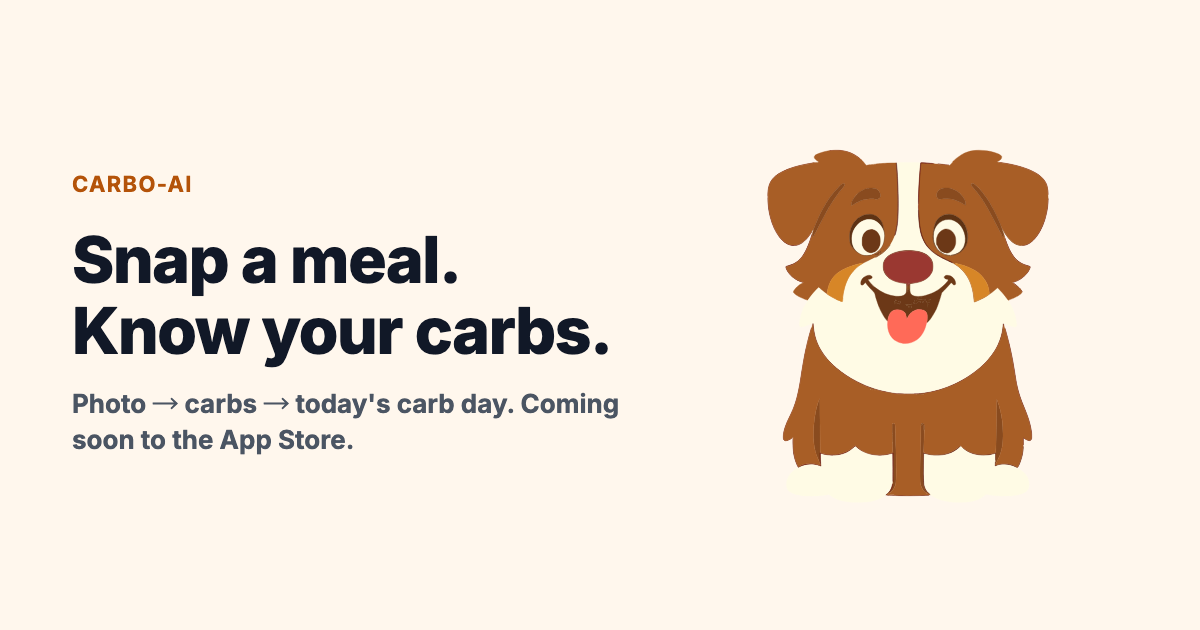
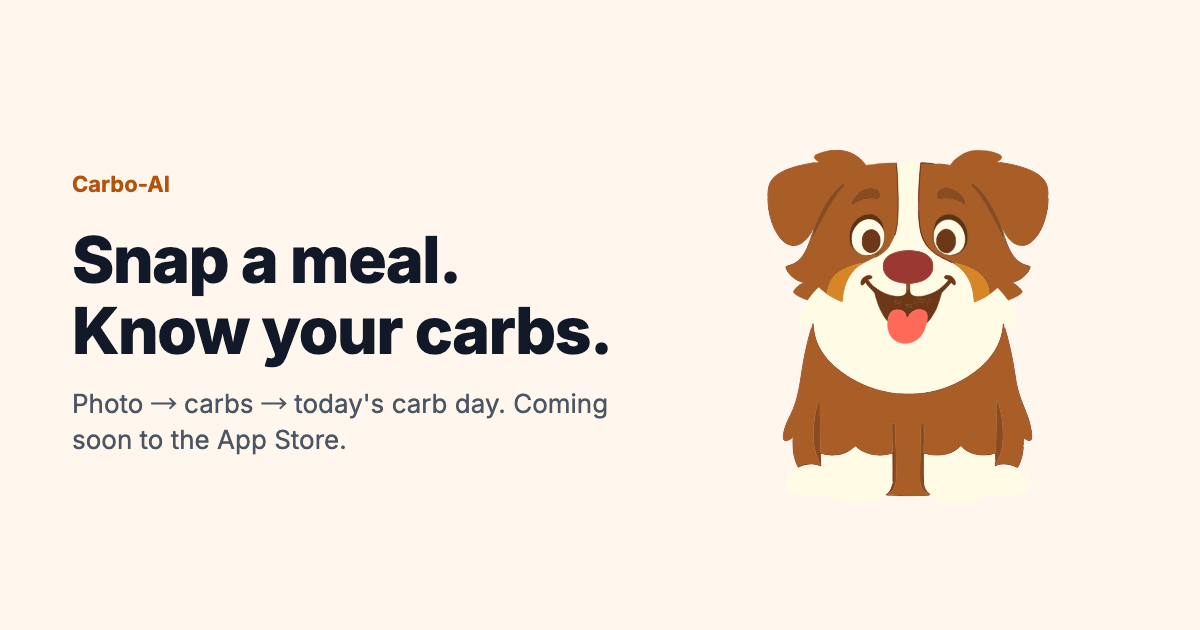
site: sitemap for all marketing pages; minimal how-it-works/zh pages ahead of phase 3

Changed region(s): [[0.0617, 0.6032, 0.5242, 0.7238], [0.0617, 0.2714, 0.185, 0.3016], [0.0617, 0.6333, 0.1233, 0.6635]]

diff --git a/tools/og-zh.html b/tools/og-zh.html
@@ -1,14 +1,14 @@
 <!doctype html><meta charset="utf-8">
-<link rel="stylesheet" href="https://fonts.googleapis.com/css2?family=Inter:wght@700;800&display=swap">
+<link rel="stylesheet" href="https://fonts.googleapis.com/css2?family=Inter:wght@400;700;800&display=swap">
 <style>
   html,body{margin:0;width:1200px;height:630px;background:#FFF7ED;font-family:Inter,-apple-system,"PingFang SC","Hiragino Sans GB",sans-serif;overflow:hidden}
   .wrap{display:grid;grid-template-columns:1fr 440px;height:630px;align-items:center;padding:0 72px;gap:32px}
   h1{font-size:68px;line-height:1.15;color:#111827;margin:0 0 20px;font-weight:800}
   p{font-size:26px;color:#4B5563;margin:0;line-height:1.5}
-  .brand{font-size:22px;font-weight:700;color:#B45309;letter-spacing:.06em;margin-bottom:28px}
+  .brand{font-size:22px;font-weight:700;color:#B45309;margin-bottom:28px}
   img{width:440px;height:560px;object-fit:contain}
 </style>
 <div class="wrap">
-  <div><div class="brand">Carbo-AI</div><h1>拍一张，<br>碳水算清。</h1><p>照片 → 碳水 → 今天的碳水日。即将登陆 App Store。</p></div>
+  <div><div class="brand">Carbo-AI</div><h1>拍一张，<br>碳水算清。</h1><p>照片 → 碳水 → 今天的碳水日。即将登陆 App&nbsp;Store。</p></div>
   <img src="../assets/img/carbo.svg" alt="">
 </div>

diff --git a/zh/how-it-works.html b/zh/how-it-works.html
@@ -1,0 +1,5 @@
+<!DOCTYPE html><html lang="zh-Hans"><head><meta charset="utf-8"><meta name="viewport" content="width=device-width, initial-scale=1">
+<title>估算是怎么来的 — Carbo-AI</title><meta name="description" content="Carbo-AI 如何把一张餐食照片变成碳水估算，以及为什么碳循环能容忍估算。">
+<link rel="canonical" href="https://carboai.app/zh/how-it-works.html"><link rel="alternate" hreflang="zh-Hans" href="https://carboai.app/zh/how-it-works.html"><link rel="alternate" hreflang="en" href="https://carboai.app/how-it-works.html"><link rel="alternate" hreflang="x-default" href="https://carboai.app/how-it-works.html">
+<link rel="icon" href="../favicon.svg" type="image/svg+xml"><meta property="og:image" content="https://carboai.app/og-zh.png"><link rel="stylesheet" href="https://fonts.googleapis.com/css2?family=Inter:wght@400;500;600;700;800&display=swap"><link rel="stylesheet" href="../assets/tokens.css"><link rel="stylesheet" href="../assets/site.css"></head>
+<body><main class="wrap section"><h1>估算是怎么来的</h1><p class="muted" style="margin-top:12px">本页撰写中。<a href="index.html">返回 Carbo-AI</a></p></main></body></html>

diff --git a/zh/about.html b/zh/about.html
@@ -1,0 +1,5 @@
+<!DOCTYPE html><html lang="zh-Hans"><head><meta charset="utf-8"><meta name="viewport" content="width=device-width, initial-scale=1">
+<title>支持 — Carbo-AI</title><meta name="description" content="Carbo-AI 支持：估算准确度、照片去向、取消订阅、删除账号、联系方式。">
+<link rel="canonical" href="https://carboai.app/zh/about.html"><link rel="alternate" hreflang="zh-Hans" href="https://carboai.app/zh/about.html"><link rel="alternate" hreflang="en" href="https://carboai.app/about.html"><link rel="alternate" hreflang="x-default" href="https://carboai.app/about.html">
+<link rel="icon" href="../favicon.svg" type="image/svg+xml"><meta property="og:image" content="https://carboai.app/og-zh.png"><link rel="stylesheet" href="https://fonts.googleapis.com/css2?family=Inter:wght@400;500;600;700;800&display=swap"><link rel="stylesheet" href="../assets/tokens.css"><link rel="stylesheet" href="../assets/site.css"></head>
+<body><main class="wrap section"><h1>支持</h1><p class="muted" style="margin-top:12px">邮件 <a href="mailto:support@carboai.app">support@carboai.app</a>。<a href="index.html">返回 Carbo-AI</a></p></main></body></html>

diff --git a/how-it-works.html b/how-it-works.html
@@ -1,0 +1,5 @@
+<!DOCTYPE html><html lang="en"><head><meta charset="utf-8"><meta name="viewport" content="width=device-width, initial-scale=1">
+<title>How the estimate works — Carbo-AI</title><meta name="description" content="How Carbo-AI turns a meal photo into a carb estimate, and why carb cycling tolerates estimates.">
+<link rel="canonical" href="https://carboai.app/how-it-works.html"><link rel="alternate" hreflang="en" href="https://carboai.app/how-it-works.html"><link rel="alternate" hreflang="zh-Hans" href="https://carboai.app/zh/how-it-works.html"><link rel="alternate" hreflang="x-default" href="https://carboai.app/how-it-works.html">
+<link rel="icon" href="favicon.svg" type="image/svg+xml"><meta property="og:image" content="https://carboai.app/og-en.png"><link rel="stylesheet" href="https://fonts.googleapis.com/css2?family=Inter:wght@400;500;600;700;800&display=swap"><link rel="stylesheet" href="assets/tokens.css"><link rel="stylesheet" href="assets/site.css"></head>
+<body><main class="wrap section"><h1>How the estimate works</h1><p class="muted" style="margin-top:12px">This page is being written. <a href="index.html">Back to Carbo-AI</a></p></main></body></html>

diff --git a/tools/og-en.html b/tools/og-en.html
@@ -1,11 +1,11 @@
 <!doctype html><meta charset="utf-8">
-<link rel="stylesheet" href="https://fonts.googleapis.com/css2?family=Inter:wght@700;800&display=swap">
+<link rel="stylesheet" href="https://fonts.googleapis.com/css2?family=Inter:wght@400;700;800&display=swap">
 <style>
   html,body{margin:0;width:1200px;height:630px;background:#FFF7ED;font-family:Inter,-apple-system,sans-serif;overflow:hidden}
   .wrap{display:grid;grid-template-columns:1fr 440px;height:630px;align-items:center;padding:0 72px;gap:32px}
   h1{font-size:64px;line-height:1.1;letter-spacing:-.02em;color:#111827;margin:0 0 20px;font-weight:800}
   p{font-size:26px;color:#4B5563;margin:0;line-height:1.4}
-  .brand{font-size:22px;font-weight:700;color:#B45309;letter-spacing:.06em;text-transform:uppercase;margin-bottom:28px}
+  .brand{font-size:22px;font-weight:700;color:#B45309;margin-bottom:28px}
   img{width:440px;height:560px;object-fit:contain}
 </style>
 <div class="wrap">
